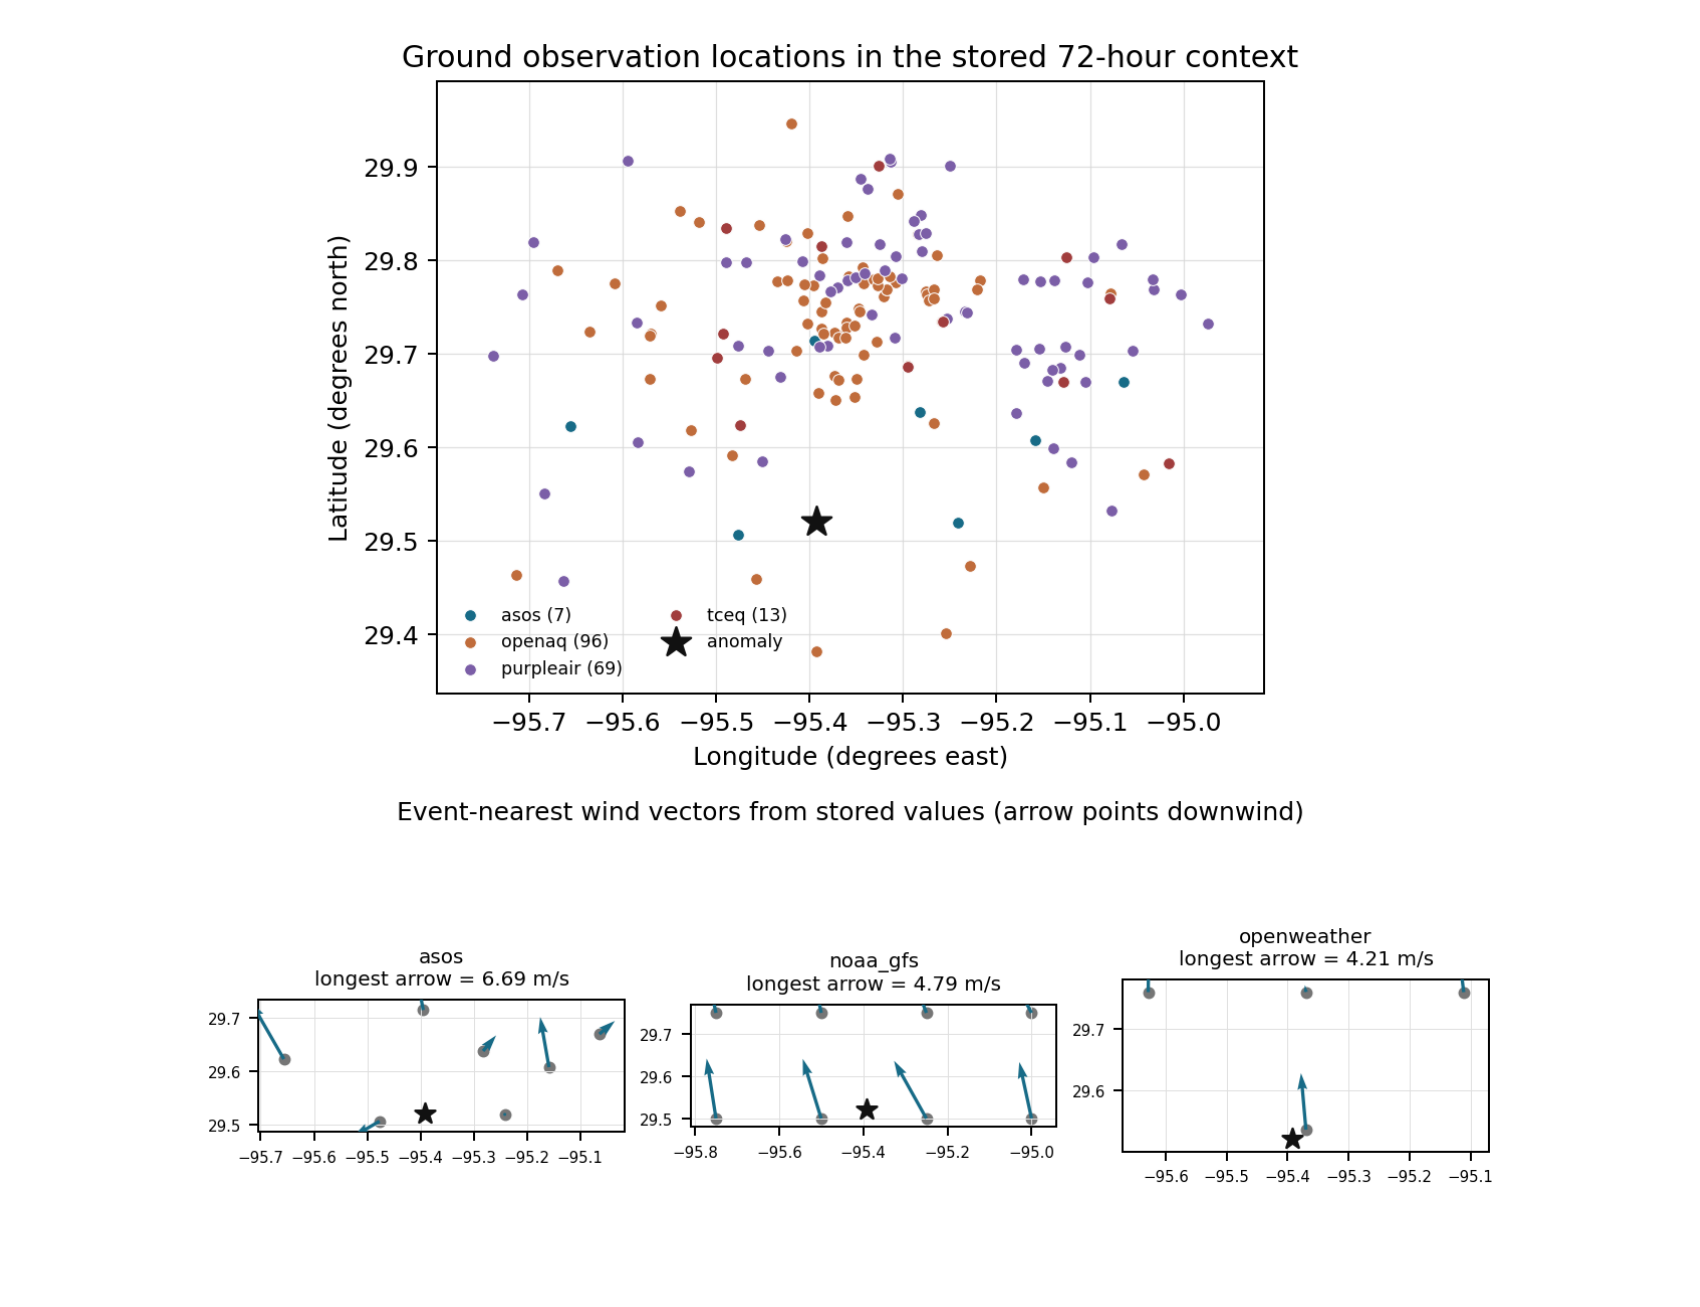
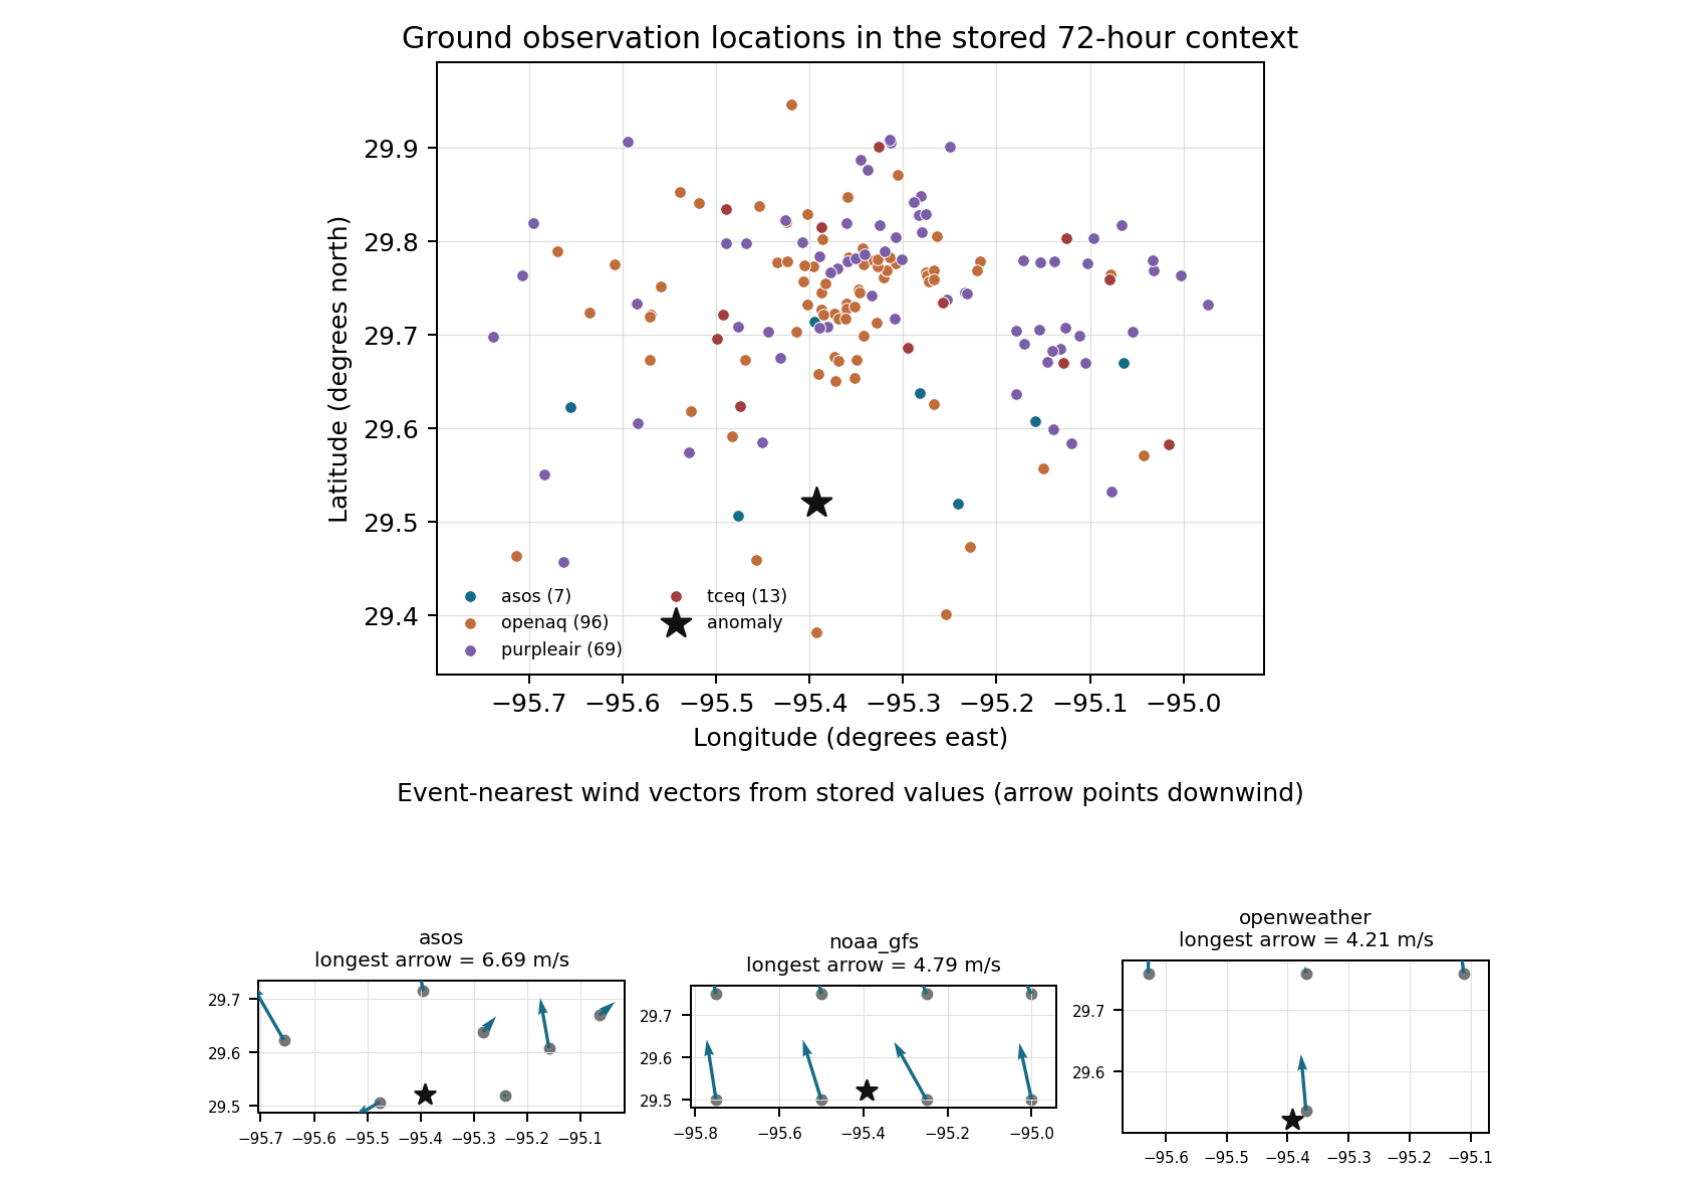
fix claim box spacing and simplify draft marker

diff --git a/server/app/eval/packet.py b/server/app/eval/packet.py
@@ -611,8 +611,8 @@ def _packet_styles() -> dict[str, ParagraphStyle]:
             "PacketSubtitle",
             parent=base["Normal"],
             fontName="Helvetica-Bold",
-            fontSize=9,
-            leading=12,
+            fontSize=11,
+            leading=13,
             textColor=colors.HexColor("#8A3F2B"),
             spaceAfter=10,
         ),
@@ -660,7 +660,10 @@ def _packet_styles() -> dict[str, ParagraphStyle]:
             borderWidth=0.6,
             borderPadding=8,
             backColor=colors.HexColor("#F7F9FA"),
-            spaceAfter=8,
+            # borderPadding draws outside the layout box, so the visible gap is
+            # space minus padding; keep space > padding or the box touches text.
+            spaceBefore=12,
+            spaceAfter=18,
         ),
         "calm_flag": ParagraphStyle(
             "CalmWindFlag",
@@ -673,7 +676,8 @@ def _packet_styles() -> dict[str, ParagraphStyle]:
             borderWidth=0.6,
             borderPadding=6,
             backColor=colors.HexColor("#FFF5E6"),
-            spaceAfter=8,
+            spaceBefore=6,
+            spaceAfter=16,
         ),
         "center": ParagraphStyle(
             "PacketCenter",
@@ -807,10 +811,7 @@ def _claim_block(
         )
     )
     content: list[Any] = [
-        Paragraph(
-            f"Claim {index} of {total} - presentation index {index}",
-            styles["claim_index"],
-        ),
+        Paragraph(f"Claim {index} of {total}", styles["claim_index"]),
         Paragraph(escape(claim.claim_text), styles["claim"]),
     ]
     if calm_wind_flag is not None:
@@ -851,45 +852,41 @@ def _build_story(
     styles = _packet_styles()
     story: list[Any] = [Paragraph("AERIS Expert Review Packet", styles["title"])]
     if example:
-        story.append(
-            Paragraph(
-                "DRAFT EXAMPLE - format review only; do not return as an official label.",
-                styles["subtitle"],
-            )
-        )
+        story.append(Paragraph("DRAFT", styles["subtitle"]))
     story.extend(
         [
             Paragraph("Anomaly", styles["heading"]),
             _anomaly_table(anomaly, styles),
             Spacer(1, 8),
-            Paragraph("Annotation instructions", styles["heading"]),
+            Paragraph("Instructions", styles["heading"]),
             Paragraph(
                 "For each numbered claim, mark exactly one box: V (Valid), I (Invalid), or U (Unsure). "
-                "Leave all boxes blank if you do not answer a claim; an unanswered claim is recorded as missing, "
-                "not as Unsure. Add a short note for Invalid or Unsure when the reason is not obvious; a note on "
-                "Valid is optional.",
+                "If you skip a claim, leave all three boxes blank; I record a skipped claim as missing, "
+                "not as Unsure. Please add a short note for Invalid or Unsure when the reason isn't "
+                "obvious. A note on Valid is optional.",
                 styles["body"],
             ),
             Paragraph(
-                "After return, the checksummed annotated PDF is the primary artifact. Mason transcribes it twice "
-                "in independent sessions; the second pass is blind to the first. A mechanical diff identifies "
-                "mismatches for resolution against that PDF. Ambiguous marks are never interpreted; they are sent "
-                "back as an enumerated clarification list before ingestion.",
+                "Once you send this back, the marked-up PDF is the record I work from. I type up your "
+                "marks twice, on separate days, without looking at the first pass while doing the second, "
+                "then compare the two and settle any mismatch against the PDF itself. If a mark is "
+                "ambiguous I won't guess what you meant; I'll email you a short numbered list of the "
+                "unclear ones instead.",
                 styles["body"],
             ),
             Paragraph(
-                "Valid: scientifically defensible at the precision stated and supported by the evidence shown. "
-                "Invalid: contradicted by the evidence, misstates a measurement, or uses indefensible physical "
-                "reasoning. Unsure: the displayed evidence is insufficient, the measurements cannot resolve the "
-                "claim, the wording is ambiguous, or the claim falls outside what you can judge confidently. "
-                "Missing or insufficient evidence is Unsure.",
+                "Valid: defensible at the stated precision and supported by the evidence shown. "
+                "Invalid: contradicted by the evidence, misstates a measurement, or the physical "
+                "reasoning doesn't hold. Unsure: the evidence shown can't resolve it, the wording is "
+                "ambiguous, or it's outside what you can judge confidently. Missing or thin evidence "
+                "is always Unsure.",
                 styles["body"],
             ),
             Paragraph(
-                "The location plot uses only coordinates stored in the 72-hour context. Each wind panel uses the "
-                "timestamp-paired observation nearest the event for that entity. Arrows point downwind; direction "
-                "encodes motion and length encodes speed in m/s within each panel. No basemap or external data is "
-                "included.",
+                "The station map shows only coordinates stored in the 72-hour context window. Each wind "
+                "panel shows one arrow per station, taken from the observation closest to the event "
+                "time. Arrows point downwind, and a longer arrow means faster wind (m/s, scaled within "
+                "each panel). There's no basemap and nothing from outside the database.",
                 styles["body"],
             ),
             Paragraph("Stored evidence summary", styles["heading"]),
@@ -901,8 +898,8 @@ def _build_story(
             PageBreak(),
             Paragraph("Claims", styles["heading"]),
             Paragraph(
-                "Claims are shown once in a deterministic labeler-specific order. The presentation index is the "
-                "number printed with each claim.",
+                "Each claim appears exactly once, in an order fixed ahead of time for your copy. When I "
+                "transcribe your marks I refer to claims by the number printed next to them.",
                 styles["body"],
             ),
         ]
@@ -918,10 +915,10 @@ def _build_story(
     story.extend(
         [
             PageBreak(),
-            Paragraph("Optional event-level note", styles["heading"]),
+            Paragraph("Optional: most likely cause", styles["heading"]),
             Paragraph(
-                "Most likely true cause, in your own words. It is acceptable to write: insufficient evidence to "
-                "determine a single cause.",
+                "Your best guess at the true cause of this event, in your own words. \"Insufficient "
+                "evidence to determine a single cause\" is a perfectly fine answer.",
                 styles["body"],
             ),
             Table(

diff --git a/server/tests/unit/test_packet.py b/server/tests/unit/test_packet.py
@@ -259,9 +259,9 @@ def test_render_is_byte_deterministic_blind_and_uses_label_cli_order(tmp_path: P
     positions = [shown.index(group.claim_text) for group in expected]
     assert positions == sorted(positions)
     normalized = " ".join(shown.split())
-    assert "second pass is blind to the first" in normalized
-    assert "Ambiguous marks are never interpreted" in normalized
-    assert "checksummed annotated PDF is the primary artifact" in normalized
+    assert "without looking at the first pass" in normalized
+    assert "If a mark is ambiguous I won't guess" in normalized
+    assert "the marked-up PDF is the record I work from" in normalized
     lowered = shown.lower()
     for leak in ("llama3:8b", "gpt-5.4", "grounded", "corroboration", "confidence"):
         assert leak not in lowered
